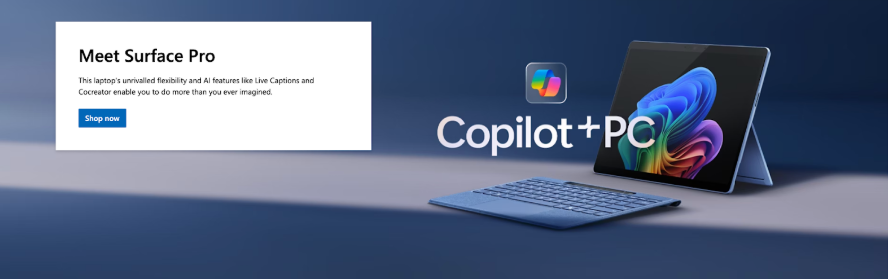
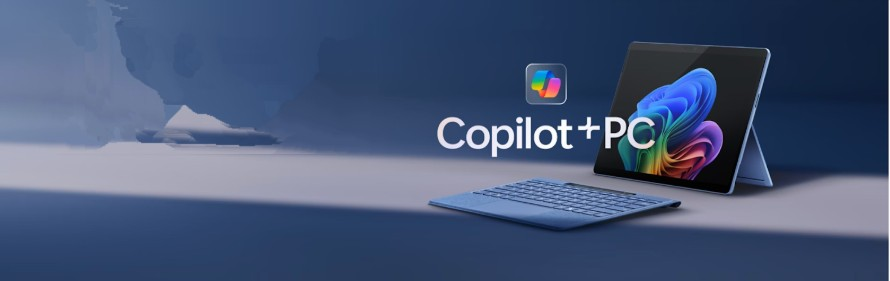
Almost complete

diff --git a/lab2/microsoft/styles.css b/lab2/microsoft/styles.css
@@ -14,6 +14,30 @@
     font: inherit;
 }
 
+.btn-primary {
+    display: inline-flex;
+    align-items: center;
+    justify-content: center;
+    margin-top: 1rem;
+    padding: 0.3rem 1rem;
+    border-radius: 0.25rem;
+    text-decoration: none;
+    font-weight: 600;
+    background-color: var(--primary-color);
+    color: white;
+    border: none;
+    transition: background-color var(--transition-timing);
+}
+
+.card h3 {
+    font-weight: bold;
+    font-size: 1.1rem;
+}
+
+.btn-primary:hover {
+    background-color: var(--secondary-color);
+}
+
 body {
     font-family: system-ui, -apple-system, 'Segoe UI', Roboto, 'Helvetica Neue', Arial, sans-serif;
     color: var(--text-color);
@@ -95,34 +119,74 @@ body {
 }
 
 .hero-section {
-    display: flex;
-    flex-wrap: wrap;
-    gap: 2rem;
-    padding: 2rem 1rem;
+    margin: 0;
 }
 
-.hero-content {
-    flex: 1 1 22rem;
-    max-width: 40rem;
+.promo-banner p {
+    margin: 0;
+    line-height: 1;
 }
 
-.hero-content h1 {
-    font-size: clamp(1.75rem, 5vw, 2.5rem);
-    margin-bottom: 1rem;
-    line-height: 1.2;
-}
-
-.hero-content p {
-    font-size: 1.125rem;
-    margin-bottom: 1.5rem;
-    max-width: 38rem;
+.hero-section {
+    width: 100%;
+    margin: 0;
+    padding: 0;
+    height: 400px;
+    max-height: 700px;
+    overflow: hidden;
+    position: relative;
 }
 
 .hero-image {
-    flex: 1 1 22rem;
-    max-width: 40rem;
-    min-height: 20rem;
+    width: 100%;
+    height: 100%;
+    display: block;
+    position: relative;
+}
+
+.hero-image img {
+    width: 100%;
+    height: 100%;
+    display: block;
+    object-fit: cover;
+    object-position: center center;
+}
+
+.btn-shop {
+    background-color: var(--primary-color);
+    color: white;
+    border-radius: 0.2rem;
+    padding: 3px;
+    font-size: 0.875rem;
+
+}
+
+.hero-text {
+    z-index: 1;
+    position: absolute;
+    top: 60px;
+    left: 95px;
+    background: white;
+    padding: 1rem;
     border-radius: 0.5rem;
+    box-shadow: 0 4px 8px rgba(0, 0, 0, 0.1);
+    max-width: 500px;
+}
+
+.hero-text h1 {
+    font-weight: 700;
+    margin: 0.8rem 0;
+    font-size: 1.5rem;
+}
+
+.hero-text p {
+    font-size: 0.8rem;
+    font-weight: 600;
+    margin: 0.8rem 0;
+}
+
+.hero-text a {
+    margin: 0.8rem 0;
 }
 
 .btn {
@@ -136,20 +200,14 @@ body {
     transition:
             background-color var(--transition-timing),
             color var(--transition-timing);
-}
-
-.btn-primary {
-    background-color: var(--primary-color);
-    color: white;
-}
-
-.btn-primary:hover {
-    background-color: var(--secondary-color);
-}
-
-.btn-outline {
     border: 2px solid var(--primary-color);
     color: var(--primary-color);
+    background-color: transparent;
+}
+
+.btn:hover {
+    background-color: var(--primary-color);
+    color: white;
 }
 
 .slider-dots {
@@ -232,12 +290,24 @@ body {
 }
 
 .card {
+    display: flex;
+    flex-direction: column;
+    justify-content: space-between;
+
+    align-items: start;
     background: white;
-    border: 1px solid var(--border-color);
-    padding: 1.5rem;
-    border-radius: 0.5rem;
-    transition: transform var(--transition-timing);
+    padding: 1rem;
+    border-radius: 8px;
+    box-shadow: 0 4px 8px rgba(0, 0, 0, 0.1);
+    width: 250px;
 }
+
+.card p {
+    font-size: 0.7rem;
+    font-weight: 500;
+}
+
+
 
 .card:hover {
     transform: translateY(-0.25rem);

diff --git a/lab2/microsoft/microsoft.html b/lab2/microsoft/microsoft.html
@@ -34,20 +34,20 @@
 </div>
 
 <section class="hero-section">
-	<div class="hero-content">
-		<h1>Meet Surface Pro</h1>
-		<p>This laptop’s unrivalled flexibility and AI features like Live Captions and Copilot enable you to do even more with your imagination.</p>
-		<a href="#" class="btn-primary">Shop now</a>
-	</div>
 	<div class="hero-image">
+		<div class="hero-text">
+			<h1>Meet Surface Pro</h1>
+			<p>This laptop’s unrivalled flexibility and AI features like Live Captions and Copilot enable you to do even more with your imagination.</p>
+			<a href="#" class="btn-primary">Shop now</a>
+		</div>
 		<img src="../../res/copilot.png" alt="Surface + Copilot" />
 	</div>
 </section>
-
 <div class="slider-dots">
 	<span class="dot active"></span>
 	<span class="dot"></span>
 	<span class="dot"></span>
+
 </div>
 
 <div class="categories">
@@ -80,27 +80,27 @@
 <section class="product-cards">
 	<div class="card">
 		<img src="../../res/card-image.png" alt="Surface Laptop">
-		<h3>Surface Laptop, Copilot + PC</h3>
-		<p>Experience the amazingly powerful device.</p>
-		<a href="#" class="btn-outline">Shop now</a>
+		<h3>Surface Laptop, Copilot+ PC</h3>
+		<p>Unlock AI features like Live Captions and Cocreator with this exceptionally powerful laptop.</p>
+		<a href="#" class="btn-primary">Shop now</a>
 	</div>
 	<div class="card">
 		<img src="../../res/card-image.png" alt="Xbox Series S">
 		<h3>Xbox Series S</h3>
 		<p>Next-gen performance in the smallest Xbox ever.</p>
-		<a href="#" class="btn-outline">Shop Xbox Series S</a>
+		<a href="#" class="btn-primary">Shop Xbox Series S</a>
 	</div>
 	<div class="card">
 		<img src="../../res/card-image.png" alt="Xbox controllers">
 		<h3>Xbox controllers</h3>
-		<p>Play together, defy the controller drift!</p>
-		<a href="#" class="btn-outline">Shop now</a>
+		<p>Elite, wireless, adaptive-find the controller that fits your style of play.</p>
+		<a href="#" class="btn-primary">Shop now</a>
 	</div>
 	<div class="card">
 		<img src="../../res/card-image.png" alt="Developer Direct">
-		<h3>Xbox presents Developer Direct</h3>
-		<p>Tune on January 25 at 12 PM PT to hear directly from dev teams.</p>
-		<a href="#" class="btn-outline">Learn more</a>
+		<h3>Xbox presents Developer_Direct</h3>
+		<p>Tune on January 25 at 12 PM PT to hear directly from the developers.</p>
+		<a href="#" class="btn-primary">Learn more</a>
 	</div>
 </section>
 
